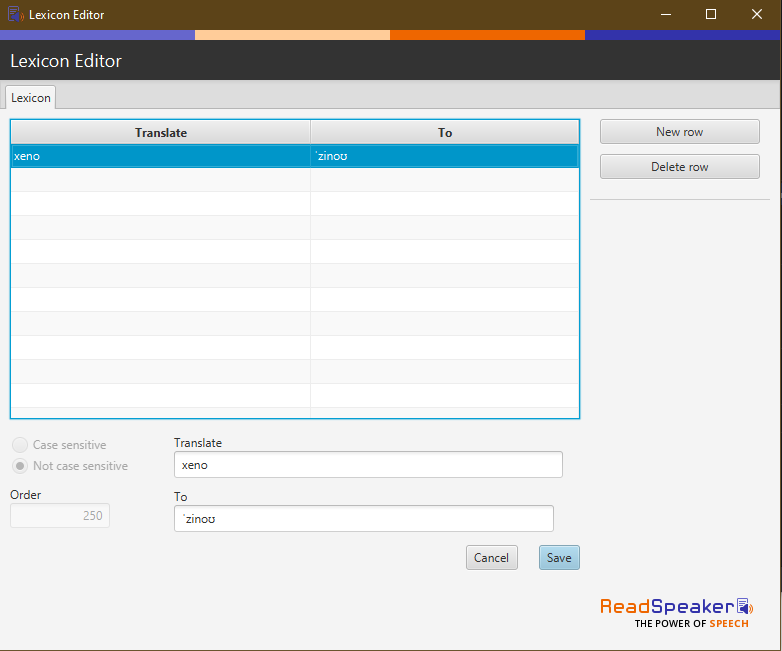
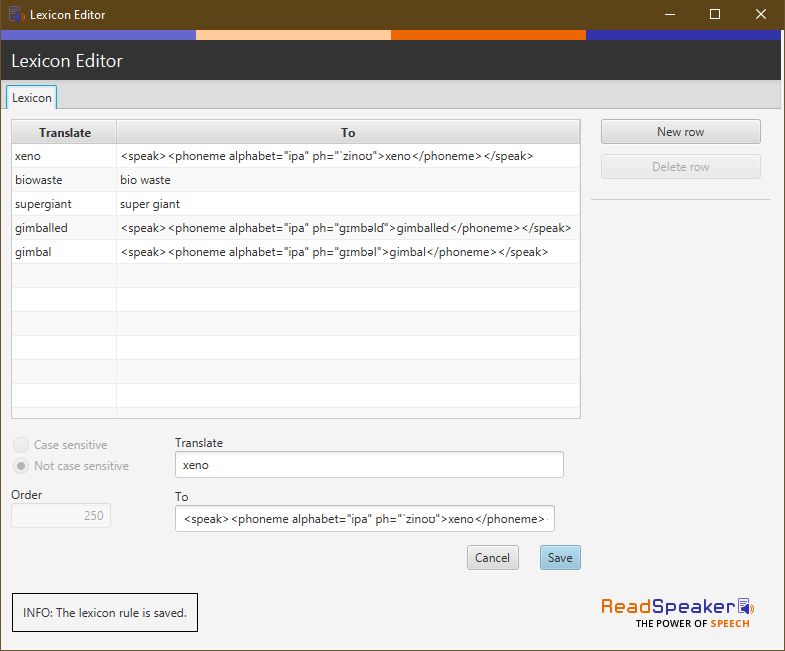
Update our lexicon documentation to recommend wrapping IPA in SSML tags.

diff --git a/SpeechService/Lexicons.md b/SpeechService/Lexicons.md
@@ -51,7 +51,7 @@ Save the .pls file once you are done editing. The revised pronunciation will be 
 
 ### Ivona voices
 
-Ivona voice installers include a Lexicon Editor utility. The utility can be used to change word pronunciations, and includes support for phonemes. The lexicon editor utility supports SSML tags only, meaning SAPI5 phonemes are not supported.  Either the [IPA](###IPA) or [X-SAMPA](###X-SAMPA) can be used to create phoneme pronunciations in SSML. 
+Ivona voice installers include a Lexicon Editor utility. The utility can be used to change word pronunciations, and includes support for phonemes. 
 
 To access the Lexicon Editor utility, from the Control Panel navigate to `Ease of Access` then `Speech Recognition` then `Advanced speech options`. 
 
@@ -65,11 +65,17 @@ To use phonemes in the Lexicon Editor, you need to translate the word you want t
 
 ![](../images/lexicons-Ivona3.png)
 
-The Lexicon Editor also accepts simple phonetic changes like adding spacing between words (e.g. from "supergiant" to "super giant")
+The Lexicon Editor accepts simple phonetic changes like adding spacing between words (e.g. from "supergiant" to "super giant")
+
+The Lexicon Editor also supports the [IPA](###IPA) or [X-SAMPA](###X-SAMPA) alphabets to create phoneme pronunciations in SSML. To ensure that these are interpreted correctly, we recommend enclosing the IPA pronunciations in [SSML tags](https://www.w3.org/TR/2004/REC-speech-synthesis-20040907/#S3.1.9), e.g.
+
+- Word: `gimballed`
+- IPA: `ɡɪmbəlɗ`
+- Wrapped in SSML tags: `<speak><phoneme alphabet="ipa" ph="ɡɪmbəlɗ">gimballed</phoneme></speak>`
 
 Notes:
-- changes take effect immediately (you do not need to restart EDDI)
-- changes match on partial words so adjusting the pronunciation of "xeno" will also influence the pronunciation of words like "xenobiology" or "anti-xeno".
+- Changes take effect immediately after saving (you do not need to restart EDDI)
+- Changes match on partial words so adjusting the pronunciation of "xeno" will also influence the pronunciation of words like "xenobiology" or "anti-xeno".
 
 ### Cereproc voices
 
